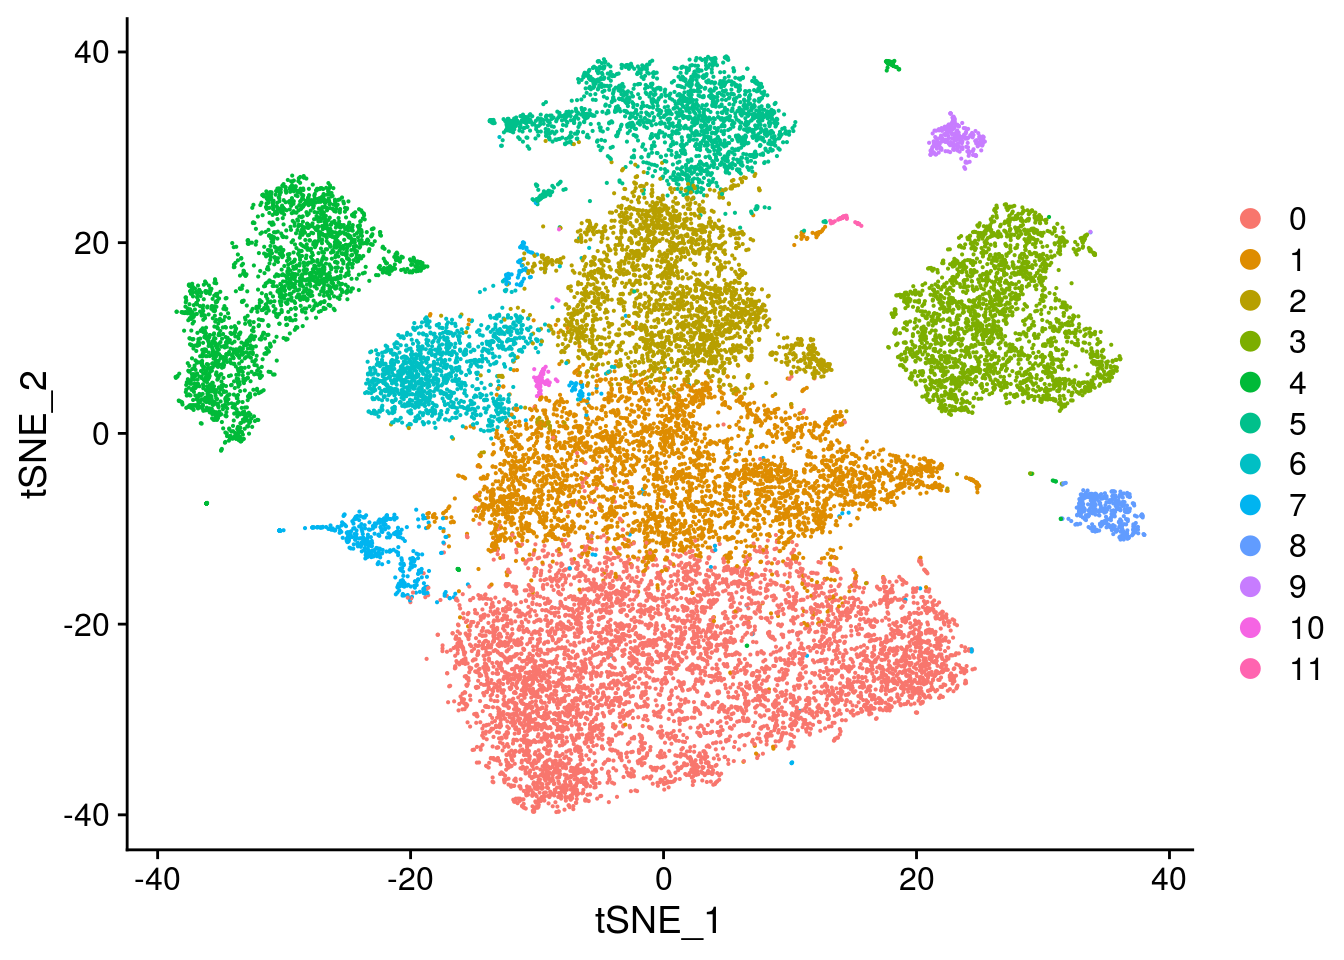
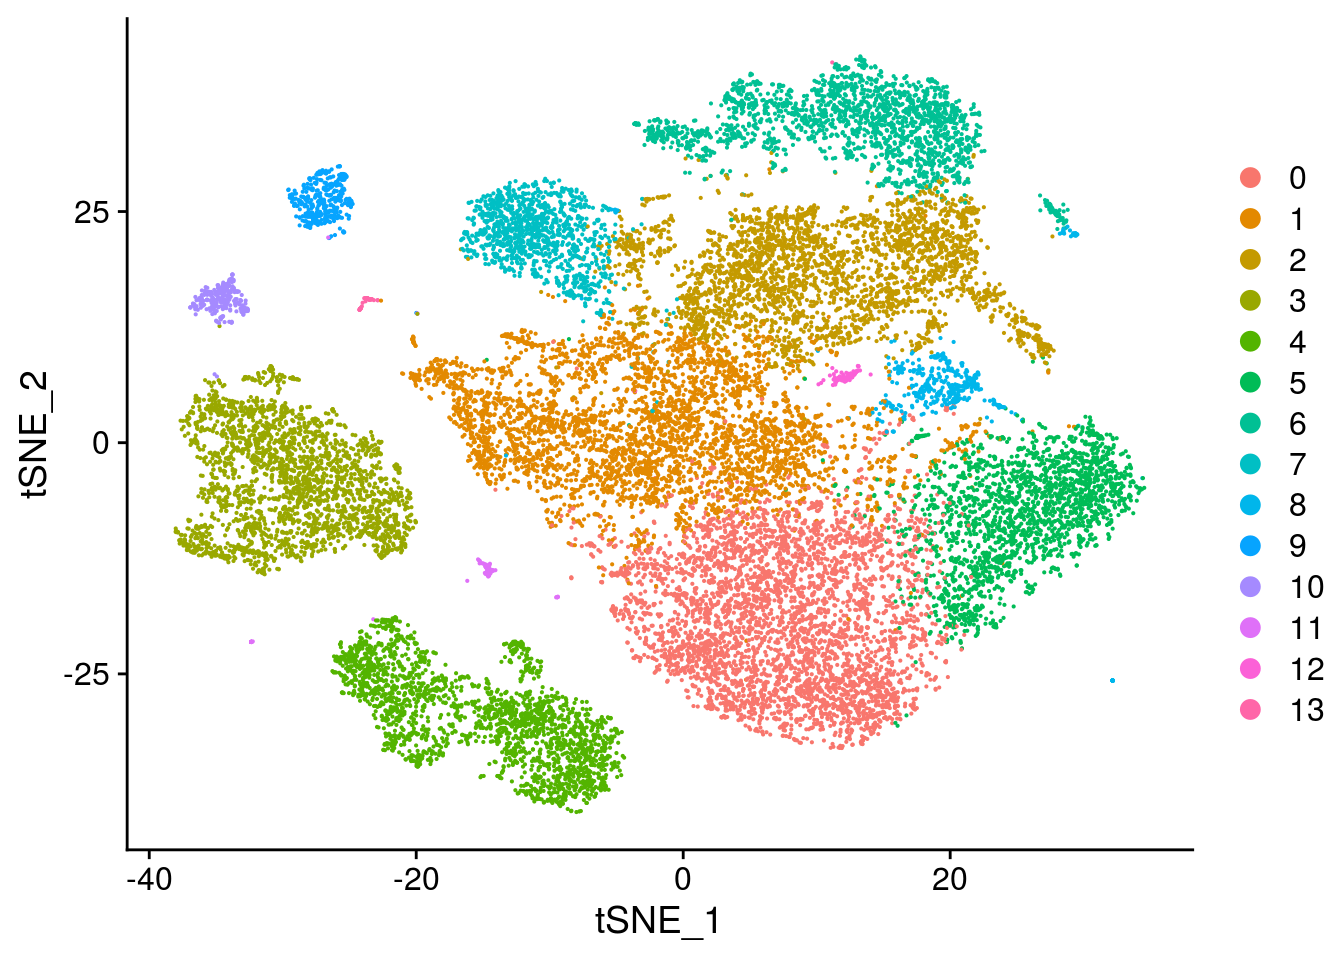
correct media and patient assignment

diff --git a/docs/pbmc_pat_med.html b/docs/pbmc_pat_med.html
@@ -405,8 +405,8 @@ div.tocify {
 <a class="sourceLine" id="cb2-15" data-line-number="15">sce<span class="op">$</span>info &lt;-<span class="st"> </span>meta<span class="op">$</span><span class="st">`</span><span class="dt">Sample Name</span><span class="st">`</span>[<span class="kw">match</span>(sce<span class="op">$</span>sample_id, meta<span class="op">$</span><span class="st">`</span><span class="dt">Sequencing ID</span><span class="st">`</span>)]</a>
 <a class="sourceLine" id="cb2-16" data-line-number="16"></a>
 <a class="sourceLine" id="cb2-17" data-line-number="17">##Add patient id</a>
-<a class="sourceLine" id="cb2-18" data-line-number="18">sce<span class="op">$</span>patient &lt;-<span class="st"> </span><span class="kw">ifelse</span>(<span class="kw">grepl</span>(<span class="st">&quot;D301089&quot;</span>, sce<span class="op">$</span>Sample), <span class="st">&quot;pat1&quot;</span>, <span class="st">&quot;pat2&quot;</span>)</a>
-<a class="sourceLine" id="cb2-19" data-line-number="19">sce<span class="op">$</span>media &lt;-<span class="st"> </span><span class="kw">ifelse</span>(<span class="kw">grepl</span>(<span class="st">&quot;Fresh&quot;</span>, sce<span class="op">$</span>Sample), <span class="st">&quot;fresh&quot;</span>, <span class="kw">ifelse</span>(<span class="kw">grepl</span>(<span class="st">&quot;DMSO&quot;</span>, sce<span class="op">$</span>Sample), <span class="st">&quot;DMSO&quot;</span>, <span class="st">&quot;MetOH&quot;</span>))</a>
+<a class="sourceLine" id="cb2-18" data-line-number="18">sce<span class="op">$</span>patient &lt;-<span class="st"> </span><span class="kw">ifelse</span>(<span class="kw">grepl</span>(<span class="st">&quot;D301089&quot;</span>, sce<span class="op">$</span>info), <span class="st">&quot;pat1&quot;</span>, <span class="st">&quot;pat2&quot;</span>)</a>
+<a class="sourceLine" id="cb2-19" data-line-number="19">sce<span class="op">$</span>media &lt;-<span class="st"> </span><span class="kw">ifelse</span>(<span class="kw">grepl</span>(<span class="st">&quot;Fresh&quot;</span>, sce<span class="op">$</span>info), <span class="st">&quot;fresh&quot;</span>, <span class="kw">ifelse</span>(<span class="kw">grepl</span>(<span class="st">&quot;DMSO&quot;</span>, sce<span class="op">$</span>info), <span class="st">&quot;DMSO&quot;</span>, <span class="st">&quot;MetOH&quot;</span>))</a>
 <a class="sourceLine" id="cb2-20" data-line-number="20"></a>
 <a class="sourceLine" id="cb2-21" data-line-number="21"><span class="kw">colnames</span>(sce) &lt;-<span class="st"> </span><span class="kw">paste0</span>(sce<span class="op">$</span>sample_id, <span class="st">&quot;.&quot;</span>, sce<span class="op">$</span>Barcode)</a>
 <a class="sourceLine" id="cb2-22" data-line-number="22"><span class="kw">rownames</span>(sce) &lt;-<span class="st"> </span><span class="kw">paste0</span>(<span class="kw">rowData</span>(sce)<span class="op">$</span>ID, <span class="st">&quot;.&quot;</span>, <span class="kw">rowData</span>(sce)<span class="op">$</span>Symbol)</a>
@@ -416,12 +416,12 @@ div.tocify {
 <a class="sourceLine" id="cb2-26" data-line-number="26"></a>
 <a class="sourceLine" id="cb2-27" data-line-number="27"><span class="kw">table</span>(sce<span class="op">$</span>patient)</a></code></pre></div>
 <pre><code>## 
-##  pat2 
-## 40717</code></pre>
+##  pat1  pat2 
+## 24704 16013</code></pre>
 <div class="sourceCode" id="cb4"><pre class="sourceCode r"><code class="sourceCode r"><a class="sourceLine" id="cb4-1" data-line-number="1"><span class="kw">table</span>(sce<span class="op">$</span>media)</a></code></pre></div>
 <pre><code>## 
-## MetOH 
-## 40717</code></pre>
+##  DMSO fresh MetOH 
+## 15658 12975 12084</code></pre>
 <div class="sourceCode" id="cb6"><pre class="sourceCode r"><code class="sourceCode r"><a class="sourceLine" id="cb6-1" data-line-number="1"><span class="kw">dim</span>(sce)</a></code></pre></div>
 <pre><code>## [1] 33808 40717</code></pre>
 <div class="sourceCode" id="cb8"><pre class="sourceCode r"><code class="sourceCode r"><a class="sourceLine" id="cb8-1" data-line-number="1"><span class="kw">dim</span>(<span class="kw">colData</span>(sce))</a></code></pre></div>
@@ -662,7 +662,7 @@ div.tocify {
 <a class="sourceLine" id="cb42-2" data-line-number="2"><span class="kw">table</span>(sce<span class="op">$</span>scDblFinder.class)</a></code></pre></div>
 <pre><code>## 
 ## doublet singlet 
-##    1120   22849</code></pre>
+##    1145   22824</code></pre>
 <div class="sourceCode" id="cb44"><pre class="sourceCode r"><code class="sourceCode r"><a class="sourceLine" id="cb44-1" data-line-number="1">sce &lt;-<span class="st"> </span>sce[,<span class="op">!</span>sce<span class="op">$</span>scDblFinder.class <span class="op">%in%</span><span class="st"> &quot;doublet&quot;</span>]</a></code></pre></div>
 </div>
 <div id="normalization" class="section level2">
@@ -673,9 +673,9 @@ div.tocify {
 <a class="sourceLine" id="cb45-4" data-line-number="4"><span class="kw">table</span>(clusters)</a></code></pre></div>
 <pre><code>## clusters
 ##    1    2    3    4    5    6    7    8    9   10   11   12   13   14   15   16 
-## 1261 1958 1627  945 2813 2731 1030 2861 1068 1421  461  493  494  639  383  352 
-##   17   18   19   20   21   22 
-##  234  463  447  689  274  205</code></pre>
+## 2738  316  892 1055 1224 2613 1115 1502 1526 1113 1673  426  476  738 1671  527 
+##   17   18   19   20   21   22   23 
+##  503  565  248  740  476  483  204</code></pre>
 <div class="sourceCode" id="cb47"><pre class="sourceCode r"><code class="sourceCode r"><a class="sourceLine" id="cb47-1" data-line-number="1">sce &lt;-<span class="st"> </span><span class="kw">computeSumFactors</span>(sce, <span class="dt">min.mean=</span><span class="fl">0.1</span>, <span class="dt">cluster=</span>clusters) ##cluster information added</a>
 <a class="sourceLine" id="cb47-2" data-line-number="2">sce &lt;-<span class="st"> </span>scater<span class="op">::</span><span class="kw">normalize</span>(sce)</a></code></pre></div>
 <pre><code>## Warning: &#39;normalizeSCE&#39; is deprecated.
@@ -712,81 +712,81 @@ div.tocify {
 <pre><code>## Merging objects</code></pre>
 <pre><code>## Finding neighborhoods</code></pre>
 <pre><code>## Finding anchors</code></pre>
-<pre><code>##  Found 11521 anchors</code></pre>
+<pre><code>##  Found 11574 anchors</code></pre>
 <pre><code>## Filtering anchors</code></pre>
-<pre><code>##  Retained 6411 anchors</code></pre>
+<pre><code>##  Retained 6419 anchors</code></pre>
 <pre><code>## Extracting within-dataset neighbors</code></pre>
 <pre><code>## Running CCA</code></pre>
 <pre><code>## Merging objects</code></pre>
 <pre><code>## Finding neighborhoods</code></pre>
 <pre><code>## Finding anchors</code></pre>
-<pre><code>##  Found 15585 anchors</code></pre>
+<pre><code>##  Found 15477 anchors</code></pre>
 <pre><code>## Filtering anchors</code></pre>
-<pre><code>##  Retained 7618 anchors</code></pre>
+<pre><code>##  Retained 7763 anchors</code></pre>
 <pre><code>## Extracting within-dataset neighbors</code></pre>
 <pre><code>## Running CCA</code></pre>
 <pre><code>## Merging objects</code></pre>
 <pre><code>## Finding neighborhoods</code></pre>
 <pre><code>## Finding anchors</code></pre>
-<pre><code>##  Found 11133 anchors</code></pre>
+<pre><code>##  Found 11091 anchors</code></pre>
 <pre><code>## Filtering anchors</code></pre>
-<pre><code>##  Retained 4401 anchors</code></pre>
+<pre><code>##  Retained 4374 anchors</code></pre>
 <pre><code>## Extracting within-dataset neighbors</code></pre>
 <pre><code>## Running CCA</code></pre>
 <pre><code>## Merging objects</code></pre>
 <pre><code>## Finding neighborhoods</code></pre>
 <pre><code>## Finding anchors</code></pre>
-<pre><code>##  Found 15279 anchors</code></pre>
+<pre><code>##  Found 15271 anchors</code></pre>
 <pre><code>## Filtering anchors</code></pre>
-<pre><code>##  Retained 6515 anchors</code></pre>
+<pre><code>##  Retained 6446 anchors</code></pre>
 <pre><code>## Extracting within-dataset neighbors</code></pre>
 <pre><code>## Running CCA</code></pre>
 <pre><code>## Merging objects</code></pre>
 <pre><code>## Finding neighborhoods</code></pre>
 <pre><code>## Finding anchors</code></pre>
-<pre><code>##  Found 12030 anchors</code></pre>
+<pre><code>##  Found 12041 anchors</code></pre>
 <pre><code>## Filtering anchors</code></pre>
-<pre><code>##  Retained 5976 anchors</code></pre>
+<pre><code>##  Retained 6003 anchors</code></pre>
 <pre><code>## Extracting within-dataset neighbors</code></pre>
 <pre><code>## Running CCA</code></pre>
 <pre><code>## Merging objects</code></pre>
 <pre><code>## Finding neighborhoods</code></pre>
 <pre><code>## Finding anchors</code></pre>
-<pre><code>##  Found 14534 anchors</code></pre>
+<pre><code>##  Found 14464 anchors</code></pre>
 <pre><code>## Filtering anchors</code></pre>
-<pre><code>##  Retained 6104 anchors</code></pre>
+<pre><code>##  Retained 6022 anchors</code></pre>
 <pre><code>## Extracting within-dataset neighbors</code></pre>
 <pre><code>## Running CCA</code></pre>
 <pre><code>## Merging objects</code></pre>
 <pre><code>## Finding neighborhoods</code></pre>
 <pre><code>## Finding anchors</code></pre>
-<pre><code>##  Found 9367 anchors</code></pre>
+<pre><code>##  Found 9416 anchors</code></pre>
 <pre><code>## Filtering anchors</code></pre>
-<pre><code>##  Retained 5070 anchors</code></pre>
+<pre><code>##  Retained 5061 anchors</code></pre>
 <pre><code>## Extracting within-dataset neighbors</code></pre>
 <pre><code>## Running CCA</code></pre>
 <pre><code>## Merging objects</code></pre>
 <pre><code>## Finding neighborhoods</code></pre>
 <pre><code>## Finding anchors</code></pre>
-<pre><code>##  Found 8256 anchors</code></pre>
+<pre><code>##  Found 8242 anchors</code></pre>
 <pre><code>## Filtering anchors</code></pre>
-<pre><code>##  Retained 4996 anchors</code></pre>
+<pre><code>##  Retained 4966 anchors</code></pre>
 <pre><code>## Extracting within-dataset neighbors</code></pre>
 <pre><code>## Running CCA</code></pre>
 <pre><code>## Merging objects</code></pre>
 <pre><code>## Finding neighborhoods</code></pre>
 <pre><code>## Finding anchors</code></pre>
-<pre><code>##  Found 9334 anchors</code></pre>
+<pre><code>##  Found 9322 anchors</code></pre>
 <pre><code>## Filtering anchors</code></pre>
-<pre><code>##  Retained 5487 anchors</code></pre>
+<pre><code>##  Retained 5443 anchors</code></pre>
 <pre><code>## Extracting within-dataset neighbors</code></pre>
 <pre><code>## Running CCA</code></pre>
 <pre><code>## Merging objects</code></pre>
 <pre><code>## Finding neighborhoods</code></pre>
 <pre><code>## Finding anchors</code></pre>
-<pre><code>##  Found 9543 anchors</code></pre>
+<pre><code>##  Found 9474 anchors</code></pre>
 <pre><code>## Filtering anchors</code></pre>
-<pre><code>##  Retained 5741 anchors</code></pre>
+<pre><code>##  Retained 5762 anchors</code></pre>
 <pre><code>## Extracting within-dataset neighbors</code></pre>
 <div class="sourceCode" id="cb136"><pre class="sourceCode r"><code class="sourceCode r"><a class="sourceLine" id="cb136-1" data-line-number="1">seurat &lt;-<span class="st"> </span><span class="kw">IntegrateData</span>(<span class="dt">anchorset =</span> anchors, <span class="dt">dims =</span> <span class="kw">seq_len</span>(<span class="dv">20</span>),</a>
 <a class="sourceLine" id="cb136-2" data-line-number="2">                        <span class="dt">features.to.integrate =</span> <span class="kw">rownames</span>(sce))</a></code></pre></div>
